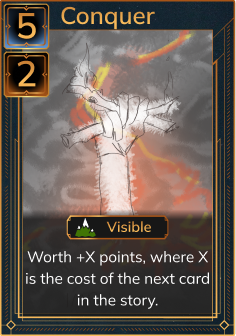
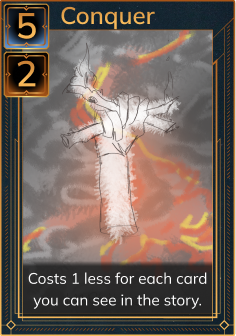
Changed Conquer to 'Costs 1 less for each card you can see in the story'

Changed region(s): [[0.089, 0.625, 0.9195, 0.9226]]

diff --git a/src/lib/cardImage.ts b/src/lib/cardImage.ts
@@ -276,7 +276,7 @@ export class CardImage {
       for (let i = parentContainer.length - 1; i >= that.renderIndex; i--) {
         parentContainer.bringToTop(parentContainer.getAt(i))
       }
-      console.log('here')
+
       // Reset the render index to show no longer reversed
       that.renderIndex = undefined
     }
